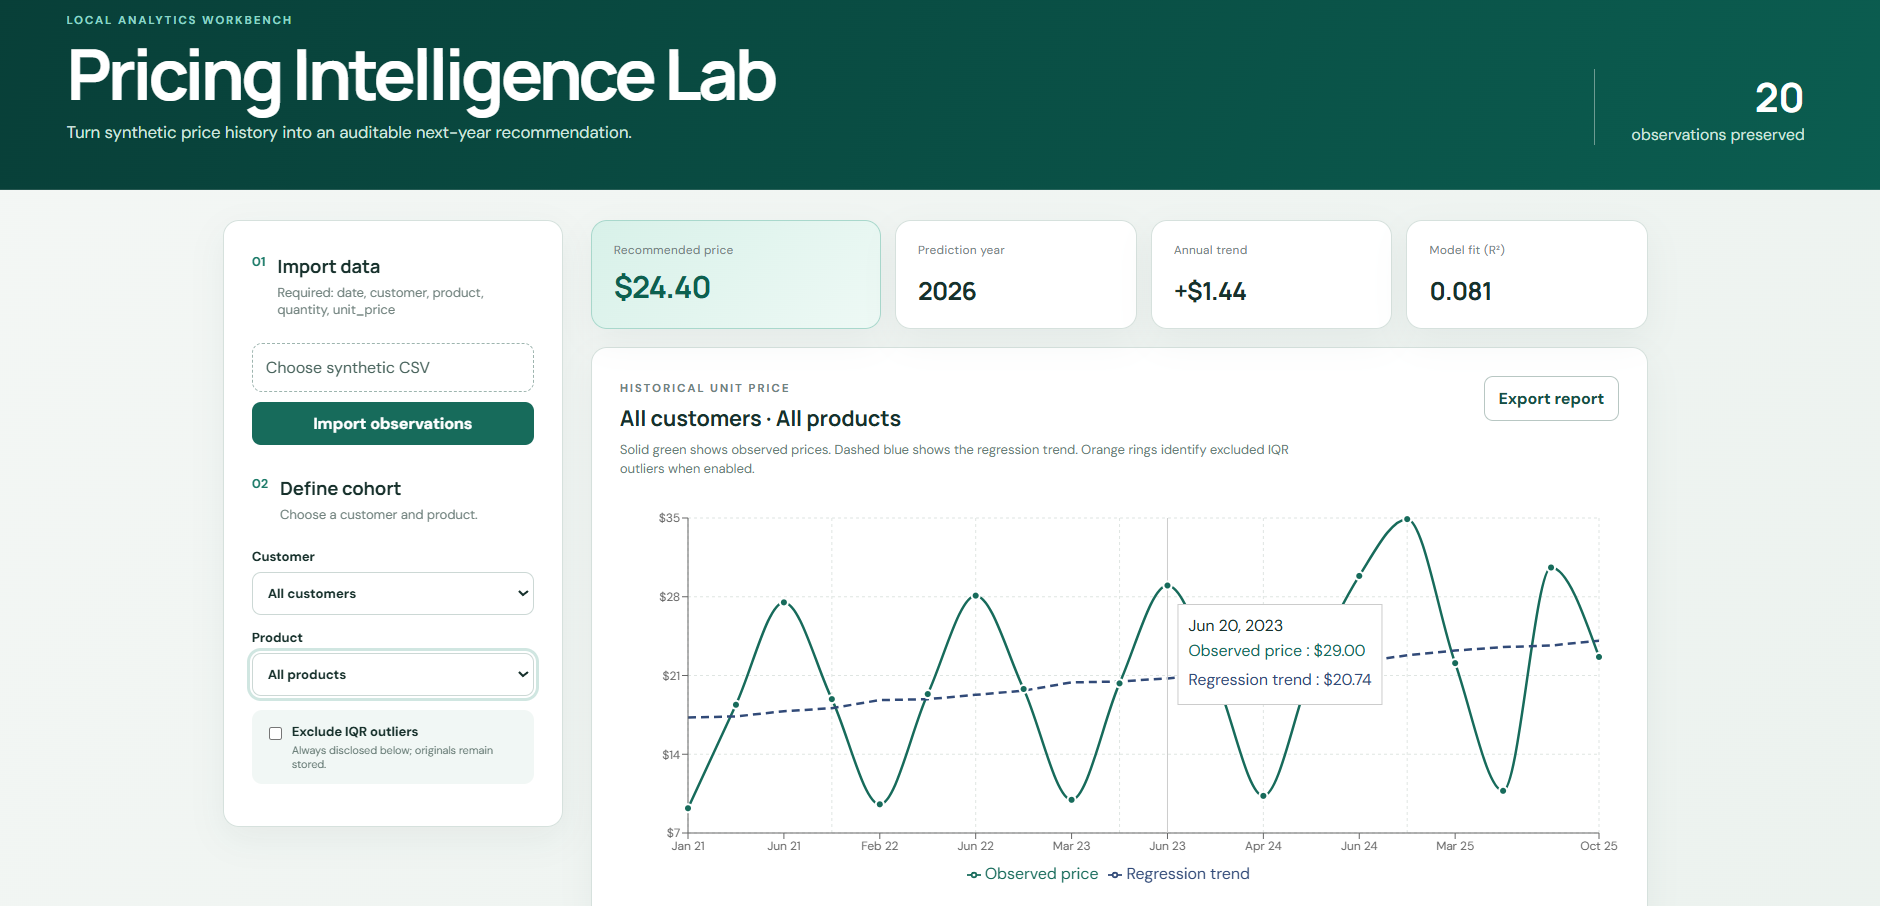
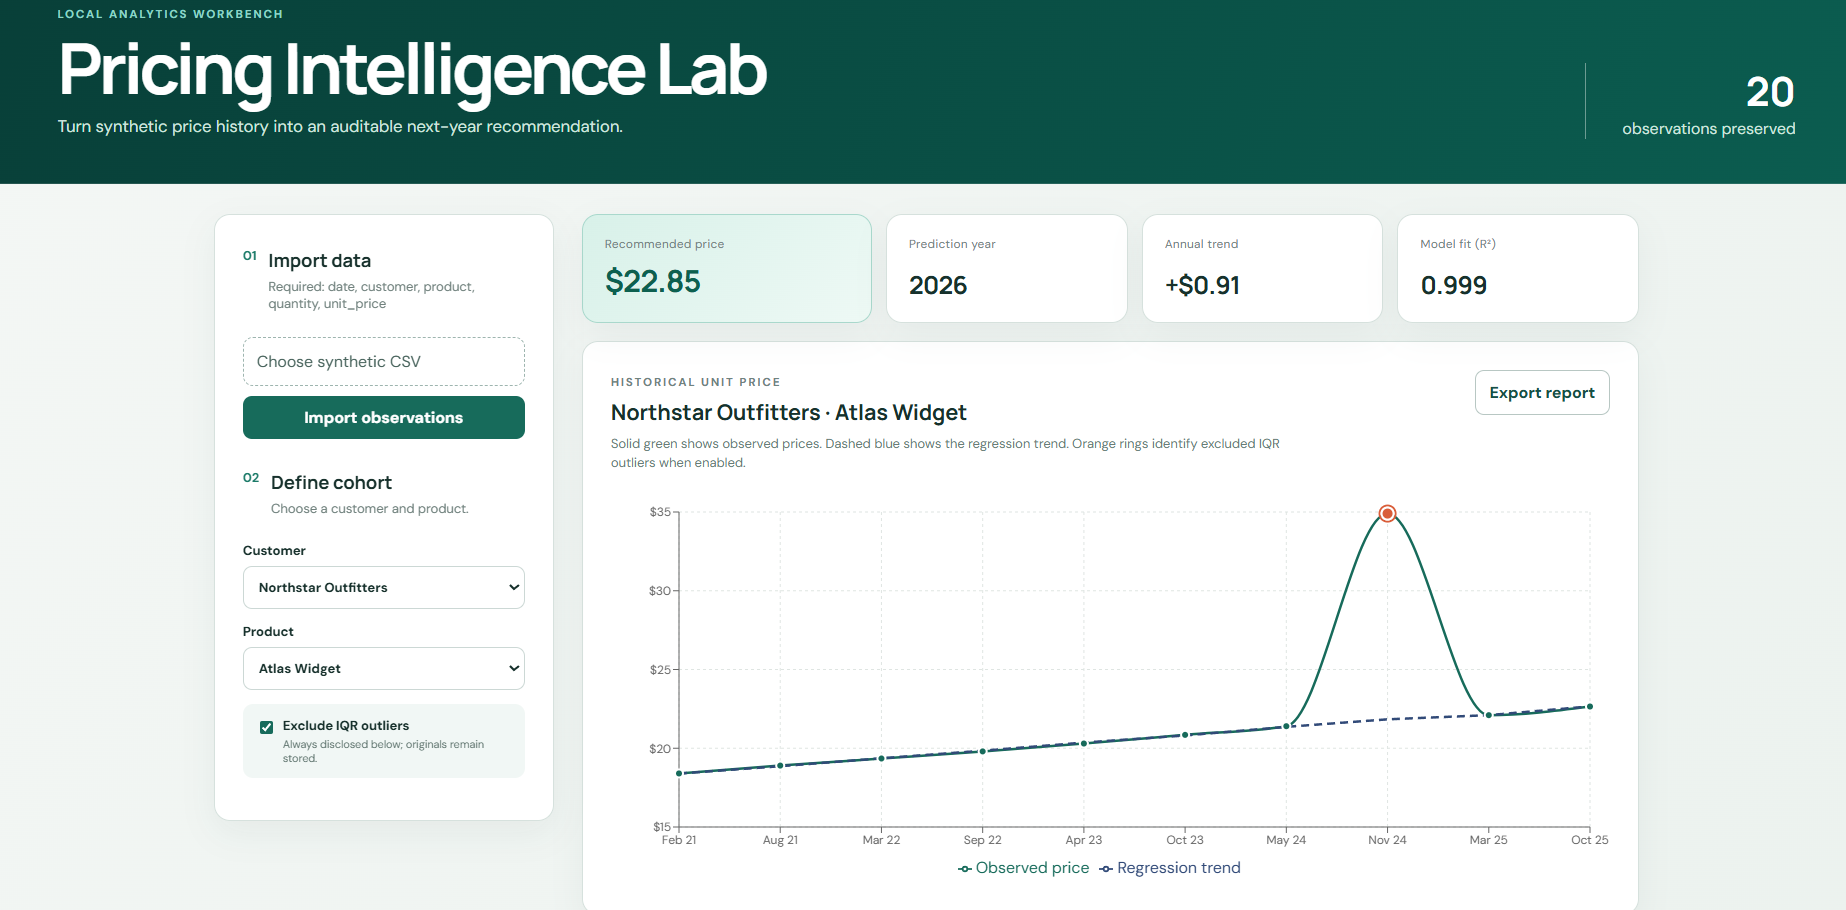
Require specific cohorts for recommendations

diff --git a/src/App.tsx b/src/App.tsx
@@ -31,6 +31,9 @@ export default function App() {
   }, [customer, product, excludeOutliers]);
 
   useEffect(() => { void load(); }, [load]);
+  useEffect(() => {
+    if (!customer || !product) setExcludeOutliers(false);
+  }, [customer, product]);
 
   async function importCsv(event: React.FormEvent) {
     event.preventDefault();
@@ -55,6 +58,7 @@ export default function App() {
     trendPrice: analysis.regression ? analysis.regression.slope * decimalYear(row.date) + analysis.regression.intercept : null,
   })) ?? [], [analysis]);
   const excludedIds = new Set(analysis?.excludedObservations.map((row) => row.id));
+  const recommendationEligible = analysis?.recommendationEligible === true;
 
   return <main>
     <header className="hero">
@@ -74,25 +78,26 @@ export default function App() {
         <div className="section-heading"><span>02</span><div><h2>Define cohort</h2><p>Choose a customer and product.</p></div></div>
         <label>Customer<select value={customer} onChange={(event) => setCustomer(event.target.value)}><option value="">All customers</option>{dimensions.customers.map((value) => <option key={value}>{value}</option>)}</select></label>
         <label>Product<select value={product} onChange={(event) => setProduct(event.target.value)}><option value="">All products</option>{dimensions.products.map((value) => <option key={value}>{value}</option>)}</select></label>
-        <label className="toggle"><input type="checkbox" checked={excludeOutliers} onChange={(event) => setExcludeOutliers(event.target.checked)} /><span><strong>Exclude IQR outliers</strong><small>Always disclosed below; originals remain stored.</small></span></label>
+        <label className={`toggle ${!customer || !product ? 'disabled' : ''}`}><input type="checkbox" checked={excludeOutliers} disabled={!customer || !product} onChange={(event) => setExcludeOutliers(event.target.checked)} /><span><strong>Exclude IQR outliers</strong><small>{customer && product ? 'Always disclosed below; originals remain stored.' : 'Select a specific customer and product first.'}</small></span></label>
       </aside>
 
       <div className="results">
         {!analysis?.observations.length ? <EmptyState loading={status.kind === 'loading'} /> : <>
-          <section className="metrics">
+          {recommendationEligible && <section className="metrics">
             <Metric label="Recommended price" value={analysis.regression ? money.format(analysis.regression.predictedPrice) : 'Need more data'} accent />
             <Metric label="Prediction year" value={analysis.regression?.predictionYear.toString() ?? '—'} />
             <Metric label="Annual trend" value={analysis.regression ? `${analysis.regression.slope >= 0 ? '+' : ''}${money.format(analysis.regression.slope)}` : '—'} />
             <Metric label="Model fit (R²)" value={analysis.regression ? analysis.regression.rSquared.toFixed(3) : '—'} />
-          </section>
+          </section>}
+          {!recommendationEligible && <AggregateExploration />}
           <section className="panel chart-panel">
-            <div className="panel-title"><div><span className="eyebrow">HISTORICAL UNIT PRICE</span><h2>{customer || 'All customers'} · {product || 'All products'}</h2><p className="chart-context">Solid green shows observed prices. Dashed blue shows the regression trend. Orange rings identify excluded IQR outliers when enabled.</p></div><button className="secondary" onClick={() => exportReport(analysis, customer, product, excludeOutliers)}>Export report</button></div>
-            <div className="chart"><ResponsiveContainer width="100%" height="100%"><LineChart data={chartData} margin={{ top: 16, right: 20, bottom: 8, left: 8 }}><CartesianGrid strokeDasharray="3 3" stroke="#dfe5e2" /><XAxis dataKey="label" tickFormatter={formatChartDate} interval="preserveStartEnd" minTickGap={52} tick={{ fontSize: 12 }} /><YAxis tickFormatter={(value) => `$${value}`} tick={{ fontSize: 12 }} domain={['auto', 'auto']} /><Tooltip labelFormatter={(label) => formatFullDate(String(label))} formatter={(value, name) => [money.format(Number(value)), name]} /><Legend /><Line name="Observed price" type="monotone" dataKey="price" stroke="#176b5b" strokeWidth={2.5} dot={(props) => <circle key={`dot-${props.payload.id}`} cx={props.cx} cy={props.cy} r={excludedIds.has(props.payload.id) ? 6 : 4} fill={excludedIds.has(props.payload.id) ? '#d95d39' : '#176b5b'} stroke="#fff" strokeWidth={2} />} /><Line name="Regression trend" type="linear" dataKey="trendPrice" stroke="#314a78" strokeWidth={2.5} strokeDasharray="8 5" dot={false} activeDot={false} />{analysis.excludedObservations.map((row) => <ReferenceDot key={row.id} x={row.date} y={row.unitPrice} r={8} fill="none" stroke="#d95d39" strokeWidth={2} />)}</LineChart></ResponsiveContainer></div>
+            <div className="panel-title"><div><span className="eyebrow">HISTORICAL UNIT PRICE</span><h2>{customer || 'All customers'} · {product || 'All products'}</h2><p className="chart-context">{recommendationEligible ? 'Solid green shows observed prices. Dashed blue shows the regression trend. Orange rings identify excluded IQR outliers when enabled.' : 'Observed prices are shown for aggregate exploration only. Select one customer and one product to fit a regression trend.'}</p></div>{recommendationEligible && <button className="secondary" onClick={() => exportReport(analysis, customer, product, excludeOutliers)}>Export report</button>}</div>
+            <div className="chart"><ResponsiveContainer width="100%" height="100%"><LineChart data={chartData} margin={{ top: 16, right: 20, bottom: 8, left: 8 }}><CartesianGrid strokeDasharray="3 3" stroke="#dfe5e2" /><XAxis dataKey="label" tickFormatter={formatChartDate} interval="preserveStartEnd" minTickGap={52} tick={{ fontSize: 12 }} /><YAxis tickFormatter={(value) => `$${value}`} tick={{ fontSize: 12 }} domain={['auto', 'auto']} /><Tooltip labelFormatter={(label) => formatFullDate(String(label))} formatter={(value, name) => [money.format(Number(value)), name]} /><Legend /><Line name="Observed price" type="monotone" dataKey="price" stroke="#176b5b" strokeWidth={2.5} dot={(props) => <circle key={`dot-${props.payload.id}`} cx={props.cx} cy={props.cy} r={excludedIds.has(props.payload.id) ? 6 : 4} fill={excludedIds.has(props.payload.id) ? '#d95d39' : '#176b5b'} stroke="#fff" strokeWidth={2} />} />{recommendationEligible && <Line name="Regression trend" type="linear" dataKey="trendPrice" stroke="#314a78" strokeWidth={2.5} strokeDasharray="8 5" dot={false} activeDot={false} />}{recommendationEligible && analysis.excludedObservations.map((row) => <ReferenceDot key={row.id} x={row.date} y={row.unitPrice} r={8} fill="none" stroke="#d95d39" strokeWidth={2} />)}</LineChart></ResponsiveContainer></div>
           </section>
-          <section className="two-column">
+          {recommendationEligible && <section className="two-column">
             <Explanation analysis={analysis} excludeOutliers={excludeOutliers} />
             <ExcludedTable rows={analysis.excludedObservations} enabled={excludeOutliers} />
-          </section>
+          </section>}
         </>}
       </div>
     </section>
@@ -101,6 +106,7 @@ export default function App() {
 }
 
 function Metric({ label, value, accent = false }: { label: string; value: string; accent?: boolean }) { return <div className={`metric ${accent ? 'accent' : ''}`}><span>{label}</span><strong>{value}</strong></div>; }
+function AggregateExploration() { return <section className="aggregate-guidance" role="status"><div className="aggregate-icon">◎</div><div><span className="eyebrow">EXPLORATION MODE</span><h2>Select a specific customer and product for a recommendation</h2><p>Aggregate selections can be explored in the observed-price chart, but regression KPIs and reports are intentionally unavailable because unrelated cohorts should not share one fitted model.</p></div></section>; }
 function decimalYear(date: string): number { const parsed = new Date(`${date}T00:00:00Z`); const year = parsed.getUTCFullYear(); return year + (parsed.getTime() - Date.UTC(year, 0, 1)) / (Date.UTC(year + 1, 0, 1) - Date.UTC(year, 0, 1)); }
 function formatChartDate(date: string): string { return new Intl.DateTimeFormat('en-US', { month: 'short', year: '2-digit', timeZone: 'UTC' }).format(new Date(`${date}T00:00:00Z`)); }
 function formatFullDate(date: string): string { return new Intl.DateTimeFormat('en-US', { month: 'short', day: 'numeric', year: 'numeric', timeZone: 'UTC' }).format(new Date(`${date}T00:00:00Z`)); }
@@ -112,6 +118,7 @@ function Explanation({ analysis, excludeOutliers }: { analysis: AnalysisResponse
 function ExcludedTable({ rows, enabled }: { rows: Observation[]; enabled: boolean }) { return <section className="panel exclusions"><span className="eyebrow">OUTLIER DISCLOSURE</span><h2>{enabled ? `${rows.length} excluded observation${rows.length === 1 ? '' : 's'}` : 'No exclusions applied'}</h2>{enabled && rows.length ? <div className="table-wrap"><table><thead><tr><th>Source row</th><th>Date</th><th>Price</th></tr></thead><tbody>{rows.map((row) => <tr key={row.id}><td>{row.sourceRow}</td><td>{row.date}</td><td>{money.format(row.unitPrice)}</td></tr>)}</tbody></table></div> : <p>{enabled ? 'No prices fall outside the 1.5× IQR bounds.' : 'Every imported observation is included in the regression.'}</p>}</section>; }
 
 function exportReport(analysis: AnalysisResponse, customer: string, product: string, excludeOutliers: boolean) {
+  if (!analysis.recommendationEligible) return;
   const regression = analysis.regression;
   const escaped = (value: string) => value.replace(/[&<>"']/g, (character) => ({ '&': '&amp;', '<': '&lt;', '>': '&gt;', '"': '&quot;', "'": '&#039;' })[character]!);
   const rows = analysis.excludedObservations.map((row) => `<tr><td>${row.sourceRow}</td><td>${escaped(row.date)}</td><td>${money.format(row.unitPrice)}</td></tr>`).join('');

diff --git a/shared/eligibility.test.ts b/shared/eligibility.test.ts
@@ -1,0 +1,20 @@
+import { describe, expect, it } from 'vitest';
+import { isRecommendationEligible } from './eligibility.js';
+
+describe('recommendation eligibility', () => {
+  it('rejects all customers and all products', () => {
+    expect(isRecommendationEligible('', '')).toBe(false);
+  });
+
+  it('rejects a specific customer with all products', () => {
+    expect(isRecommendationEligible('Northstar Outfitters', '')).toBe(false);
+  });
+
+  it('rejects all customers with a specific product', () => {
+    expect(isRecommendationEligible('', 'Atlas Widget')).toBe(false);
+  });
+
+  it('allows a specific customer and specific product', () => {
+    expect(isRecommendationEligible('Northstar Outfitters', 'Atlas Widget')).toBe(true);
+  });
+});

diff --git a/server/index.ts b/server/index.ts
@@ -4,6 +4,7 @@ import multer from 'multer';
 import { parse } from 'csv-parse/sync';
 import { z } from 'zod';
 import { identifyOutliers, linearRegression } from '../shared/calculations.js';
+import { isRecommendationEligible } from '../shared/eligibility.js';
 import { replaceObservations, listDimensions, listObservations } from './database.js';
 
 const app = express();
@@ -50,9 +51,21 @@ app.get('/api/analysis', (request, response) => {
   const product = typeof request.query.product === 'string' ? request.query.product : undefined;
   const excludeOutliers = request.query.excludeOutliers === 'true';
   const observations = listObservations(customer, product);
+  const recommendationEligible = isRecommendationEligible(customer, product);
+  if (!recommendationEligible) {
+    return response.json({
+      recommendationEligible,
+      observations,
+      includedObservations: observations,
+      excludedObservations: [],
+      regression: null,
+      outlierBounds: null,
+    });
+  }
   const outliers = identifyOutliers(observations);
   const included = excludeOutliers ? outliers.included : observations;
   response.json({
+    recommendationEligible,
     observations, includedObservations: included,
     excludedObservations: excludeOutliers ? outliers.excluded : [],
     regression: linearRegression(included),

diff --git a/shared/eligibility.ts b/shared/eligibility.ts
@@ -1,0 +1,3 @@
+export function isRecommendationEligible(customer?: string, product?: string): boolean {
+  return Boolean(customer?.trim() && product?.trim());
+}

diff --git a/shared/types.ts b/shared/types.ts
@@ -26,6 +26,7 @@ export interface OutlierResult {
 }
 
 export interface AnalysisResponse {
+  recommendationEligible: boolean;
   observations: Observation[];
   includedObservations: Observation[];
   excludedObservations: Observation[];

diff --git a/src/styles.css b/src/styles.css
@@ -6,3 +6,4 @@ body{background:linear-gradient(135deg,#f4f7f5 0%,#eaf1ed 100%);letter-spacing:-
 @media(max-width:1100px){.workspace{grid-template-columns:1fr;max-width:920px}.controls{position:static}.metrics{grid-template-columns:repeat(4,1fr)}}
 @media(max-width:760px){.hero{padding:34px 24px}.hero-stat{min-width:auto}.workspace{padding:18px}.controls,.chart-panel,.explanation,.exclusions{padding:22px}.metrics{grid-template-columns:repeat(2,minmax(0,1fr));gap:12px}.metric{min-height:96px}.two-column{grid-template-columns:1fr}.chart{height:330px}.panel-title{flex-direction:column}.recommendation-callout{align-items:flex-start;flex-direction:column}.recommendation-callout small{text-align:left}}
 @media(max-width:480px){.hero{display:block;padding:32px 20px}.hero h1{font-size:2.45rem;line-height:.98}.hero-stat{display:flex;align-items:baseline;gap:12px;text-align:left;border-left:0;border-top:1px solid rgba(255,255,255,.18);padding:22px 0 0;margin-top:24px}.hero-stat strong{font-size:2rem}.workspace{padding:14px}.controls{padding:22px}.metrics{grid-template-columns:repeat(2,minmax(0,1fr))}.metric{padding:17px 16px;min-height:92px}.metric strong,.metric.accent strong{font-size:1.35rem}.chart-panel{padding:20px 14px}.chart-context{font-size:.78rem}.chart{height:310px}.explanation,.exclusions{padding:22px}.recommendation-callout strong{font-size:1.55rem}}
+.toggle.disabled{opacity:.62;cursor:not-allowed}.aggregate-guidance{display:flex;align-items:flex-start;gap:18px;padding:24px 26px;margin-bottom:18px;background:linear-gradient(120deg,#e8f2ef,#f6f9f8);border:1px solid #cbded8;border-radius:16px}.aggregate-icon{width:42px;height:42px;flex:0 0 42px;display:grid;place-items:center;border-radius:50%;background:#fff;color:#176b5b;font-size:1.35rem;box-shadow:0 5px 14px rgba(23,107,91,.1)}.aggregate-guidance h2{font:700 1.18rem Manrope;margin:6px 0}.aggregate-guidance p{max-width:850px;margin:0;color:#5c716b;line-height:1.5;font-size:.9rem}@media(max-width:480px){.aggregate-guidance{padding:20px;gap:13px}.aggregate-icon{width:36px;height:36px;flex-basis:36px}.aggregate-guidance h2{font-size:1rem}}

diff --git a/README.md b/README.md
@@ -18,7 +18,8 @@ Pricing Intelligence Lab turns synthetic transaction history into an auditable n
 - Filters analysis by fictional customer and product.
 - Charts observed unit prices alongside a fitted regression trend.
 - Optionally identifies outliers using the 1.5×IQR rule and explicitly lists every excluded source row.
-- Calculates an ordinary least-squares trend and recommends a price for the following calendar year.
+- Calculates an ordinary least-squares trend and recommends a price for the following calendar year only after one specific customer and product are selected.
+- Keeps aggregate selections in exploration mode without combining unrelated cohorts into one regression.
 - Explains the slope, intercept, fitted sample size, prediction, and R² in plain language.
 - Exports a standalone HTML recommendation report.
 - Provides clear empty, loading, success, validation-error, and server-error states.